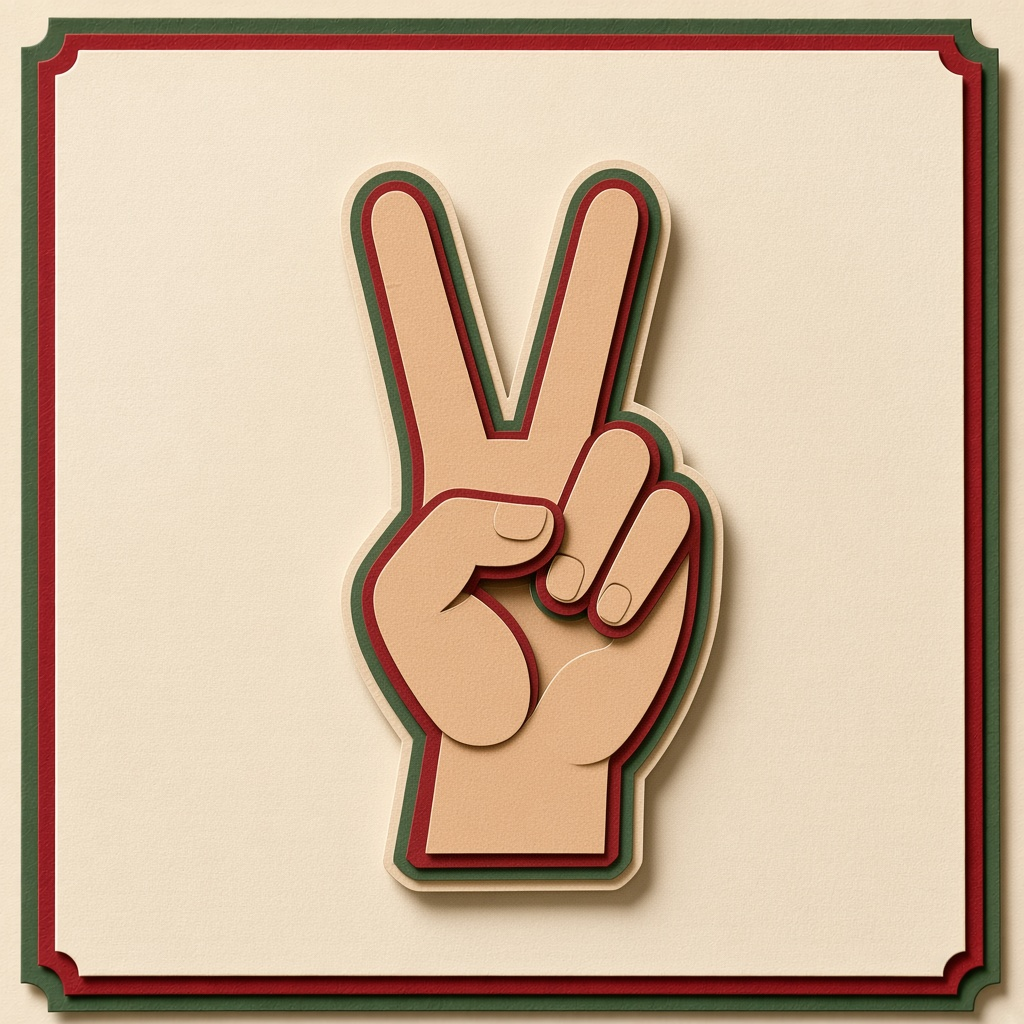
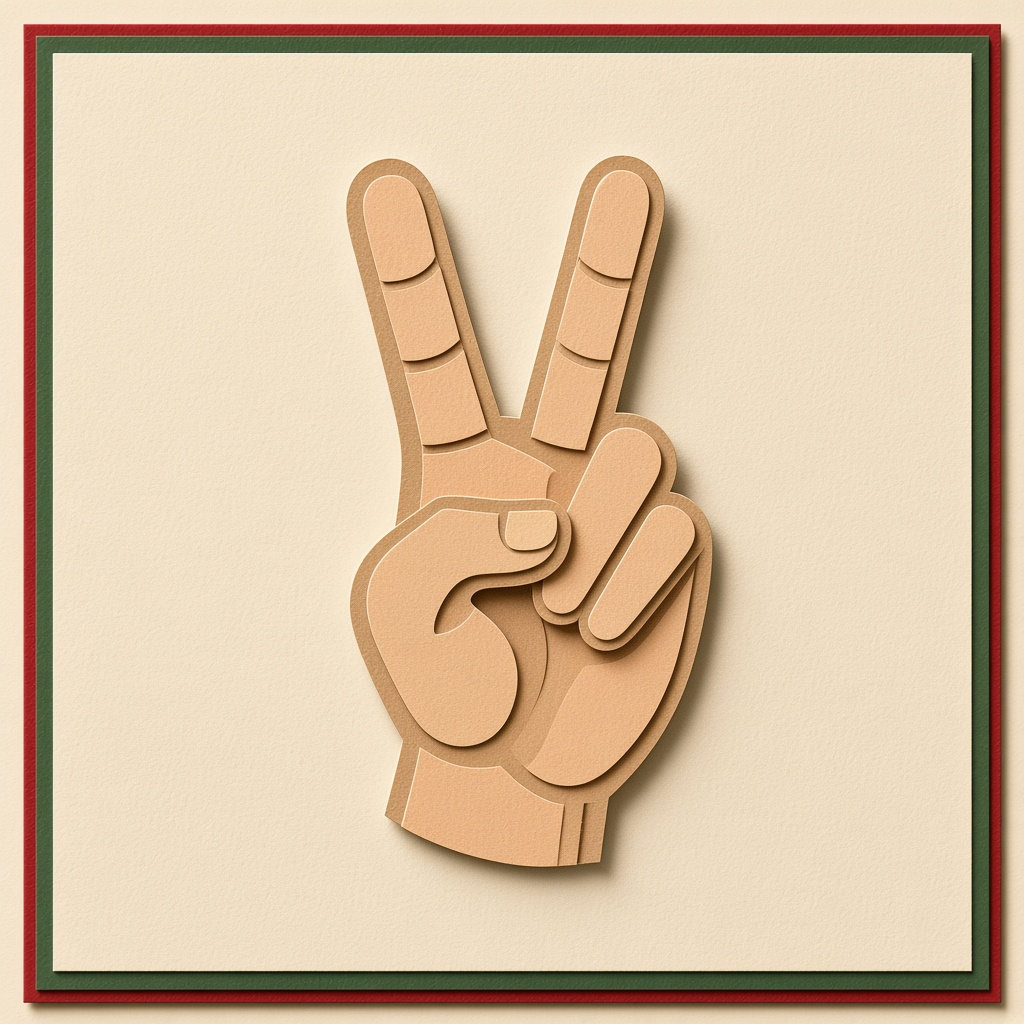
Fix paper finger guides: kraft/skin hands, no green
Regenerate public/paper/guide-*.jpg so hands use tan/kraft/cream only;
keep green on card borders. Bump PAPER VER 9→10.

Changed region(s): [[0.0, 0.0, 1.0, 1.0], [0.3125, 0.125, 0.75, 0.9062]]

diff --git a/hosts/paper/src/paperAssets.js b/hosts/paper/src/paperAssets.js
@@ -5,7 +5,7 @@ import { loadImage } from './pixelAssets.js'
 
 const BASE = import.meta.env.BASE_URL
 const P = `${BASE}paper`
-const VER = '9'
+const VER = '10'
 
 export const PAPER = {
   guideSnow: `${P}/guide-snow.jpg?v=${VER}`,

diff --git a/src/paperAssets.js b/src/paperAssets.js
@@ -5,7 +5,7 @@ import { loadImage } from './pixelAssets.js'
 
 const BASE = import.meta.env.BASE_URL
 const P = `${BASE}paper`
-const VER = '9'
+const VER = '10'
 
 export const PAPER = {
   guideSnow: `${P}/guide-snow.jpg?v=${VER}`,
